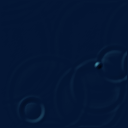
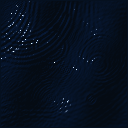
ripples: light by slope, add swell, ring drops and sound reactions

diff --git a/ripples/config.html b/ripples/config.html
@@ -1,4 +1,4 @@
-<form method="post" action="/config?plugin={{ plugin }}">
+<form method="post" action="/config?plugin={{ plugin }}" data-autosave>
   <fieldset>
     <legend>Colour scheme</legend>
     <div class="presets">
@@ -19,5 +19,11 @@
     </div>
   </fieldset>
 
-  <button type="submit">Apply</button>
+  <fieldset>
+    <legend>React to sound</legend>
+    <div class="presets">
+      <label><input type="radio" name="listen" value="1" {{ "checked" if placeholder.listen == 1 else "" }}>On</label>
+      <label><input type="radio" name="listen" value="0" {{ "checked" if placeholder.listen == 0 else "" }}>Off</label>
+    </div>
+  </fieldset>
 </form>

diff --git a/ripples/__init__.py b/ripples/__init__.py
@@ -1,89 +1,229 @@
+import math
 import time
 import micropython
 from array import array
-from random import randrange
+from micropython import const
+from random import getrandbits
 
 from plugin_config import plugin_config
 
-# shadow side, calm water, lit side
+# deep water, the sky it reflects, and the light's glints
 SCHEMES = {
-    "deep_sea": [(0, 4, 14), (4, 22, 52), (70, 150, 170)],
-    "pond": [(2, 8, 4), (10, 34, 20), (120, 170, 110)],
-    "moonlit": [(0, 0, 2), (8, 10, 18), (170, 175, 190)],
-    "lagoon": [(0, 14, 18), (6, 60, 70), (110, 210, 200)],
-    "sunset": [(8, 2, 14), (40, 12, 40), (230, 150, 50)],
+    "deep_sea": [(2, 14, 36), (90, 150, 190), (240, 250, 255)],
+    "pond": [(6, 22, 12), (110, 160, 120), (240, 255, 220)],
+    "moonlit": [(2, 3, 10), (60, 70, 100), (225, 230, 250)],
+    "lagoon": [(2, 40, 48), (120, 210, 200), (250, 255, 245)],
+    "sunset": [(20, 6, 28), (210, 110, 90), (255, 220, 150)],
 }
 
 cfg = plugin_config("ripples", {
     "scheme": "deep_sea",  # one of SCHEMES
     "rain": 2,  # 1 light, 2 steady, 4 heavy
+    "listen": 1,  # 1 to react to sound, 0 to ignore it
 })
 scheme = cfg["scheme"]
 rain = cfg["rain"]
+listen = cfg["listen"]
 
-STOPS = SCHEMES.get(scheme, SCHEMES["deep_sea"])
+DEEP, SKY, GLINT = SCHEMES.get(scheme, SCHEMES["deep_sea"])
 
-# calm water sits at 128
-PALETTE = array("I", [0] * 256)
-for i in range(256):
-    if i < 128:
-        lo = STOPS[0]
-        hi = STOPS[1]
-        f = i / 128
-    else:
-        lo = STOPS[1]
-        hi = STOPS[2]
-        f = (i - 128) / 127
-    r = int(lo[0] + (hi[0] - lo[0]) * f)
-    g = int(lo[1] + (hi[1] - lo[1]) * f)
-    b = int(lo[2] + (hi[2] - lo[2]) * f)
-    PALETTE[i] = 0xff000000 | (b << 16) | (g << 8) | r
+hearing = mic if listen else None
 
-# water height now and a frame ago. edges stay 0 so waves bounce
-now = array("i", [0] * 128 * 128)
-before = array("i", [0] * 128 * 128)
+# water height is 16 bits a cell, offset so calm water is LEVEL: now and a
+# step ago. the edges stay calm, so waves bounce back off them
+LEVEL = const(32768)
+NOW = array("H", [LEVEL] * 128 * 128)
+BEFORE = array("H", [LEVEL] * 128 * 128)
 
-DROP = 2048  # how hard a raindrop pushes the water
-next_drop = time.ticks_ms()
+# how much of each wave is lost every step, as a shift. 6 loses 1/64, so
+# ripples run right across the pool and through each other
+LOSS = const(6)
 
-# soft round drops, hard ones leave a pitted look. (offset, height) pairs
-DROP_SHAPE = []
-for dy in range(-4, 5):
-    for dx in range(-4, 5):
-        d2 = dx * dx + dy * dy
-        if d2 < 16:
-            k = 1 - d2 / 16
-            DROP_SHAPE.append((dy * 128 + dx, int(DROP * k * k)))
+# drops: how hard they push, smallest to largest, their radius in px, and
+# between drops in ms at steady rain
+DROP = (1200, 4000)
+RADIUS = (3, 7)
+BETWEEN = (180, 600)
+
+# on a kick a stone this big drops in, on a clap a scatter of small drops
+STONE = 7000
+STONE_RADIUS = 11
+
+# this wave won't spread a drop into rings like real water, so each drop
+# starts as a few: a bump in the middle, then troughs and crests to its edge.
+# by distance from the middle squared, out of 64, x256
+def rings(turns):
+    return array("i", [int(256 * math.cos(math.sqrt(i / 64) * turns * math.pi) * (1 - math.sqrt(i / 64)) ** 1.5) for i in range(64)])
 
 
-# steps the water into before and lights it from now. light is the slope
+BROAD = rings(2.5)
+FINE = rings(4.5)
+SCATTER = 6
+
+# a big drop now and then, without music
+BIG_EVERY = 6
+
+# lighting for every slope across and down, 64 x 64
+TABLE = 64
+STEEPEST = 1.0
+# the sun is low, so only the steepest faces catch its glint. the glint is
+# tight
+SUN_FROM = (-0.6, -0.7, 0.3)
+SHINE = 400
+REFLECT = 0.05
+
+# how much the water is lifted above its scheme colours, glints aside
+LIFT = 1.8
+
+
+def pack(r, g, b):
+    return 0xff000000 | (int(b) << 16) | (int(g) << 8) | int(r)
+
+
+def sunlit():
+    lit = array("I", [0] * TABLE * TABLE)
+    sx, sy, sz = SUN_FROM
+    size = math.sqrt(sx * sx + sy * sy + sz * sz)
+    sx, sy, sz = sx / size, sy / size, sz / size
+    hx, hy, hz = sx, sy, sz + 1
+    size = math.sqrt(hx * hx + hy * hy + hz * hz)
+    hx, hy, hz = hx / size, hy / size, hz / size
+    half = TABLE // 2
+    for row in range(TABLE):
+        dy = (row - half) / half * STEEPEST
+        for column in range(TABLE):
+            dx = (column - half) / half * STEEPEST
+            size = math.sqrt(dx * dx + dy * dy + 1)
+            nx, ny, nz = -dx / size, -dy / size, 1 / size
+            facing = max(0.0, nx * sx + ny * sy + nz * sz)
+            glint = max(0.0, nx * hx + ny * hy + nz * hz) ** SHINE
+            reflect = REFLECT + (1 - REFLECT) * (1 - nz) ** 5
+            shade = (0.3 + 1.1 * facing) * (1 - reflect)
+            lit[row * TABLE + column] = pack(*[min(255, (DEEP[c] * shade + SKY[c] * reflect) * LIFT + GLINT[c] * glint) for c in range(3)])
+    return lit
+
+
+LIT = sunlit()
+
+# how many height units of slope reach the edge of the lighting table
+SLOPE_SHIFT = const(5)
+
+# under the ripples a gentle swell moves the whole surface: (wavelength px,
+# heading degrees, steepness in lighting table steps)
+SWELLS = [(74, 20, 11), (41, -55, 8)]
+
+# swell slope is steepness times sin(x + y), x its phase across, y its phase
+# down plus travel. that's sin(x) cos(y) + cos(x) sin(y). so per column,
+# sin(x) then cos(x) x256. per row, what multiplies them each frame
+SWELL_COLUMNS = array("i", [0] * 128 * 4)
+SWELL_ROWS = array("i", [0] * 128 * 8)
+
+# per swell: its phase down per row and travelled, in 1/1024 turn, then its
+# steepness across and down, x256
+SWELL_PARAMS = array("i", [0] * 8)
+SWELL_DOWN = []
+SWELL_SPEED = []
+for _w, (_length, _heading, _steep) in enumerate(SWELLS):
+    _k = 2 * math.pi / _length
+    _kx = _k * math.cos(math.radians(_heading))
+    _ky = _k * math.sin(math.radians(_heading))
+    for _x in range(128):
+        SWELL_COLUMNS[_x * 4 + _w * 2] = int(math.sin(_kx * _x) * 256)
+        SWELL_COLUMNS[_x * 4 + _w * 2 + 1] = int(math.cos(_kx * _x) * 256)
+    SWELL_DOWN.append(_ky * 1024 / (2 * math.pi))
+    SWELL_SPEED.append(math.sqrt(9 * _k) * 1024 / (2 * math.pi))
+    SWELL_PARAMS[_w * 4 + 2] = int(_steep * 256 * math.cos(math.radians(_heading)))
+    SWELL_PARAMS[_w * 4 + 3] = int(_steep * 256 * math.sin(math.radians(_heading)))
+
+SIN = array("i", [int(math.sin(i * 2 * math.pi / 1024) * 256) for i in range(1024)])
+
+
+# fills SWELL_ROWS: for each row and swell, what multiplies the column's sin
+# and cos for the slope across, then for the slope down
 @micropython.viper
-def ripple(now: ptr32, before: ptr32, pixels: ptr32, pal: ptr32):  # noqa: F821
+def swell_rows(rows: ptr32, params: ptr32, sin: ptr32, down: ptr32):  # noqa: F821
+    y = 0
+    while y < 128:
+        w = 0
+        while w < 2:
+            b = (int(down[w * 128 + y]) + int(params[w * 4])) & 1023
+            cb = int(sin[(b + 256) & 1023])
+            sb = int(sin[b])
+            across = int(params[w * 4 + 2])
+            along = int(params[w * 4 + 3])
+            o = y * 8 + w * 4
+            rows[o] = (across * cb) >> 8
+            rows[o + 1] = (across * sb) >> 8
+            rows[o + 2] = (along * cb) >> 8
+            rows[o + 3] = (along * sb) >> 8
+            w += 1
+        y += 1
+
+
+# each swell's phase down each row, in 1/1024 turn
+SWELL_ROW_PHASE = array("i", [0] * 2 * 128)
+for _w in range(2):
+    for _y in range(128):
+        SWELL_ROW_PHASE[_w * 128 + _y] = int(SWELL_DOWN[_w] * _y)
+
+
+# one step of the wave: each cell moves toward the average of its eight
+# neighbours and past it by how far it was moving, losing a little each time.
+# then each pixel is lit by its slope across and down
+@micropython.viper
+def ripple(now: ptr16, before: ptr16, pixels: ptr32, lit: ptr32,  # noqa: F821
+           columns: ptr32, rows: ptr32):  # noqa: F821
     row = 128
     while row < 16256:
+        y8 = (row >> 7) * 8
+        ac1 = int(rows[y8])
+        as1 = int(rows[y8 + 1])
+        dc1 = int(rows[y8 + 2])
+        ds1 = int(rows[y8 + 3])
+        ac2 = int(rows[y8 + 4])
+        as2 = int(rows[y8 + 5])
+        dc2 = int(rows[y8 + 6])
+        ds2 = int(rows[y8 + 7])
         i = row + 1
         end = row + 127
         while i < end:
-            left = int(now[i - 1])
-            right = int(now[i + 1])
-            up = int(now[i - 128])
-            down = int(now[i + 128])
+            left = int(now[i - 1]) - LEVEL
+            right = int(now[i + 1]) - LEVEL
+            up = int(now[i - 128]) - LEVEL
+            down = int(now[i + 128]) - LEVEL
 
-            # half the neighbours minus where it was, shrunk so waves die out
-            next_height = ((left + right + up + down) >> 1) - int(before[i])
-            before[i] = next_height - (next_height >> 4)
+            # sides count twice the corners, so rings spread round, not square
+            corners = (int(now[i - 129]) + int(now[i - 127]) + int(now[i + 127]) + int(now[i + 129])) - 4 * LEVEL
+            next_height = (((left + right + up + down) * 2 + corners) * 170 >> 10) - (int(before[i]) - LEVEL)
+            next_height -= next_height >> LOSS
+            if next_height > 32000:
+                next_height = 32000
+            elif next_height < -32000:
+                next_height = -32000
+            before[i] = next_height + LEVEL
 
-            light = ((right - left + down - up) >> 4) + 128
-            if light < 0:
-                light = 0
-            elif light > 255:
-                light = 255
-            pixels[i] = pal[light]
+            # the swell under it all, then the ripples on top
+            c4 = (i & 127) * 4
+            sa1 = int(columns[c4])
+            ca1 = int(columns[c4 + 1])
+            sa2 = int(columns[c4 + 2])
+            ca2 = int(columns[c4 + 3])
+            across = 32 + ((right - left) >> SLOPE_SHIFT) + ((sa1 * ac1 + ca1 * as1 + sa2 * ac2 + ca2 * as2) >> 16)
+            along = 32 + ((down - up) >> SLOPE_SHIFT) + ((sa1 * dc1 + ca1 * ds1 + sa2 * dc2 + ca2 * ds2) >> 16)
+            if across < 0:
+                across = 0
+            elif across > 63:
+                across = 63
+            if along < 0:
+                along = 0
+            elif along > 63:
+                along = 63
+            pixels[i] = lit[(along << 6) | across]
             i += 1
         row += 128
 
-    # edge never moves, so it's always flat water
-    calm = pal[128]
+    # the edge never moves, so it's always calm water
+    calm = lit[(32 << 6) | 32]
     i = 0
     while i < 128:
         pixels[i] = calm
@@ -93,17 +233,70 @@ def ripple(now: ptr32, before: ptr32, pixels: ptr32, pal: ptr32):  # noqa: F821
         i += 1
 
 
+# pushes a soft round drop into the water
+@micropython.viper
+def splash(now: ptr16, x: int, y: int, radius: int, height: int, profile: ptr32):  # noqa: F821
+    r2 = radius * radius
+    dy = -radius
+    while dy <= radius:
+        py = y + dy
+        if 1 <= py < 127:
+            dx = -radius
+            while dx <= radius:
+                px = x + dx
+                d2 = dx * dx + dy * dy
+                if 1 <= px < 127 and d2 < r2:
+                    k = int(profile[(d2 * 64) // r2])
+                    at = (py << 7) | px
+                    v = int(now[at]) + ((height * k) >> 8)
+                    now[at] = 65535 if v > 65535 else (0 if v < 0 else v)
+                dx += 1
+        dy += 1
+
+
+def drop(height, radius):
+    splash(NOW, 6 + getrandbits(7) % 116, 6 + getrandbits(7) % 116, radius, height, FINE if getrandbits(1) else BROAD)
+
+
+def between(lo, hi):
+    return lo + getrandbits(16) * (hi - lo) // 65536
+
+
+start = time.ticks_ms()
+next_drop = start
+next_big = start + BIG_EVERY * 1000
+loud = 0.0
+last = start
+
+
 def update():
-    global now, before, next_drop
+    global NOW, BEFORE, next_drop, next_big, loud, last
 
     t = time.ticks_ms()
+    dt = time.ticks_diff(t, last) / 1000
+    last = t
+
+    pace = rain
+    if hearing is not None and hearing.active():
+        loud += (hearing.level() - loud) * (1 - math.exp(-2 * dt))
+        pace = rain * (1 + 2 * loud)
+        if hearing.kick():
+            drop(STONE, STONE_RADIUS)
+        if hearing.clap():
+            for _ in range(SCATTER):
+                drop(between(*DROP) // 2, RADIUS[0])
+    elif time.ticks_diff(t, next_big) >= 0:
+        drop(STONE, STONE_RADIUS)
+        next_big = time.ticks_add(t, int(BIG_EVERY * 1000 * (0.6 + getrandbits(8) / 320)))
 
     if time.ticks_diff(t, next_drop) >= 0:
-        centre = randrange(6, 122) * 128 + randrange(6, 122)
-        for offset, height in DROP_SHAPE:
-            now[centre + offset] += height
-        # steady is a drop every 0.25-0.7 s
-        next_drop = time.ticks_add(t, randrange(500, 1400) // rain)
+        drop(between(*DROP), between(*RADIUS))
+        next_drop = time.ticks_add(t, int(between(*BETWEEN) / pace))
 
-    ripple(now, before, memoryview(screen), PALETTE)
-    now, before = before, now
+    seconds = time.ticks_diff(t, start) / 1000
+    for w in range(2):
+        SWELL_PARAMS[w * 4] = int(-seconds * SWELL_SPEED[w]) & 1023
+    swell_rows(SWELL_ROWS, SWELL_PARAMS, SIN, SWELL_ROW_PHASE)
+
+    ripple(NOW, BEFORE, memoryview(screen), LIT, SWELL_COLUMNS, SWELL_ROWS)
+    NOW, BEFORE = BEFORE, NOW
